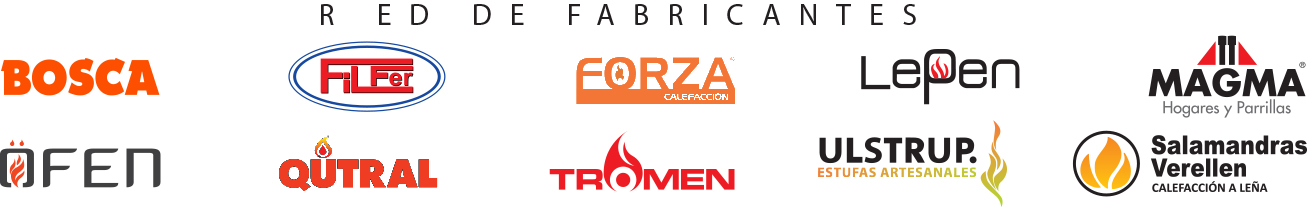
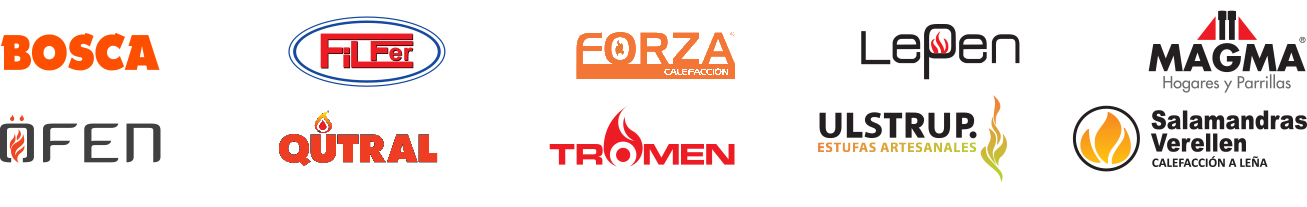
mobile version fixes

diff --git a/index.php b/index.php
@@ -43,8 +43,8 @@
                         <div class="slidermobile">
                             <div id="sliderImages">
                             <img src="./de/images/homeMobileA.jpg" class="only-mobile" />
-                            <img src="./de/images/homeMobile1.jpg" class="only-mobile" />
-                            <img src="./de/images/homeMobile2.jpg" class="only-mobile" />
+                            <img src="./de/images/homeMobile.jpg" class="only-mobile" />
+                            <img src="./de/images/homeMobileB.jpg" class="only-mobile" />
                             </div>
                         </div>
                     </div>
@@ -68,6 +68,7 @@
                     <div class="clear"></div>
                 </div>
                 <div id="fab">
+                <img src="./de/images/fabricantesTop.jpg" usemap="#Map" border="0" style='max-width: 80%; margin-bottom:20px; margin-left:auto; margin-right:auto;'/>
                 <a href="comprar.php">
                 <img src="./de/images/fabricantes2.jpg" usemap="#Map" border="0" style='max-width: 100%;'/>
                 </a>
